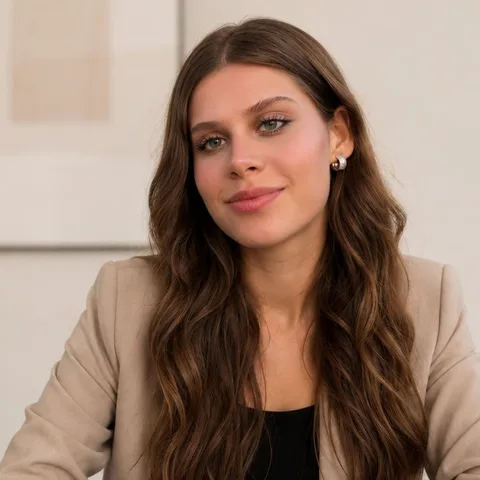
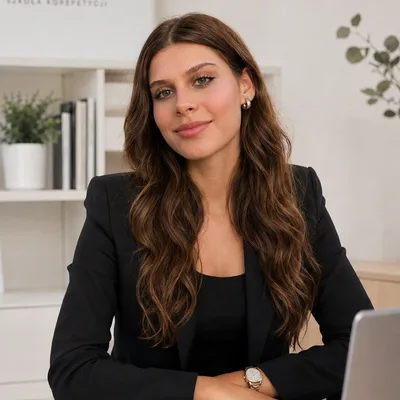
Contact: founder photo from zdajmatme.com (black blazer), smaller circle
Claude-Session: https://claude.ai/code/session_01T5gvCs3xWPWubbDWAAwojC

diff --git a/src/components/sections/FinalCta.tsx b/src/components/sections/FinalCta.tsx
@@ -16,8 +16,8 @@ export function FinalCta() {
       <div className="shell relative text-center">
         <SectionHead chapter="kontakt" title={FINAL_CTA.title} accent={FINAL_CTA.accent} lead={FINAL_CTA.lead} id="final-title" />
         <FadeUp delay={0.12} className="mt-9 flex flex-col items-center">
-          <span className="relative block h-40 w-40 overflow-hidden rounded-full border-4 border-accent shadow-[0_0_0_8px_rgba(255,165,80,0.14),0_0_44px_-8px_rgba(255,165,80,0.6)] md:h-48 md:w-48">
-            <Image src="/team/oliwia-kontakt.webp" alt={`${BRAND.owner.name} – założycielka ZdajMatme.com`} fill sizes="(min-width: 768px) 192px, 160px" className="object-cover" />
+          <span className="relative block h-32 w-32 overflow-hidden rounded-full border-4 border-accent shadow-[0_0_0_8px_rgba(255,165,80,0.14),0_0_44px_-8px_rgba(255,165,80,0.6)] md:h-36 md:w-36">
+            <Image src="/team/oliwia-kontakt.webp" alt={`${BRAND.owner.name} – założycielka ZdajMatme.com`} fill sizes="(min-width: 768px) 144px, 128px" className="object-cover" />
           </span>
           <span className="mt-4 block text-[1.25rem] font-semibold">{BRAND.owner.name}</span>
           <span className="block text-sm text-white/60">Założycielka · odbiera telefon</span>
